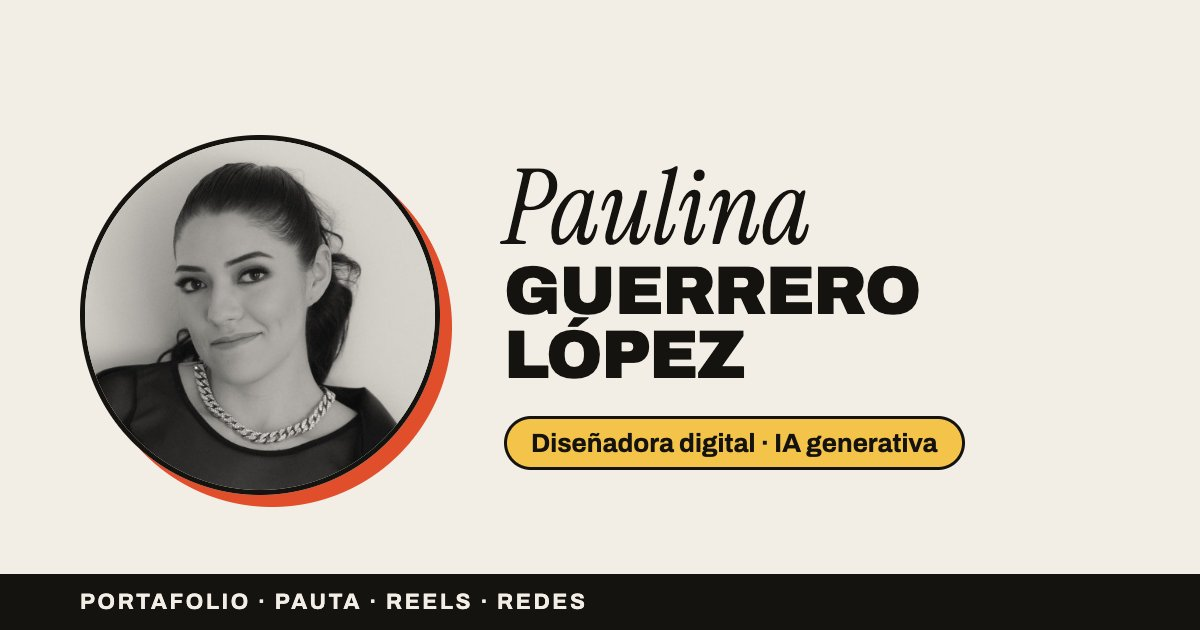
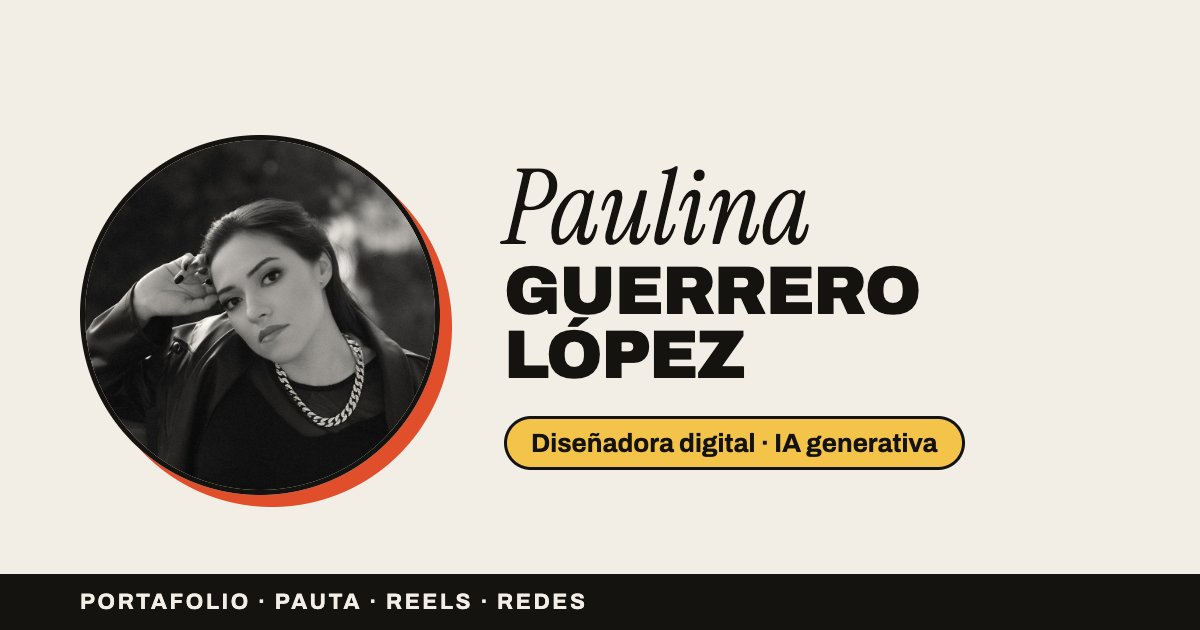
Nueva foto y descripción basada en el CV

Changed region(s): [[0.0617, 0.2111, 0.37, 0.7841]]

diff --git a/src/data/site.ts b/src/data/site.ts
@@ -11,7 +11,7 @@ export const site = {
   whatsappMessage: 'Hola Paulina, vi tu portafolio y me gustaría platicar sobre un proyecto.',
   role: 'Diseñadora digital · IA generativa',
   bio: [
-    'Diseñadora digital desde 2023 y con IA generativa desde 2025. Creo imagen, video y postproducción para pauta, reels y redes de marcas como Luxury Habitat Real Estate.',
+    'Diseñadora de marketing con IA. Convierto renders y fotos en piezas para campaña (virtual staging, timelapses y reels) para marcas como Luxury Habitat Real Estate.',
   ],
   // Herramientas que aparecen debajo de la bio; `use` es la nota pequeña junto al nombre y `url` el sitio oficial.
   tools: [
